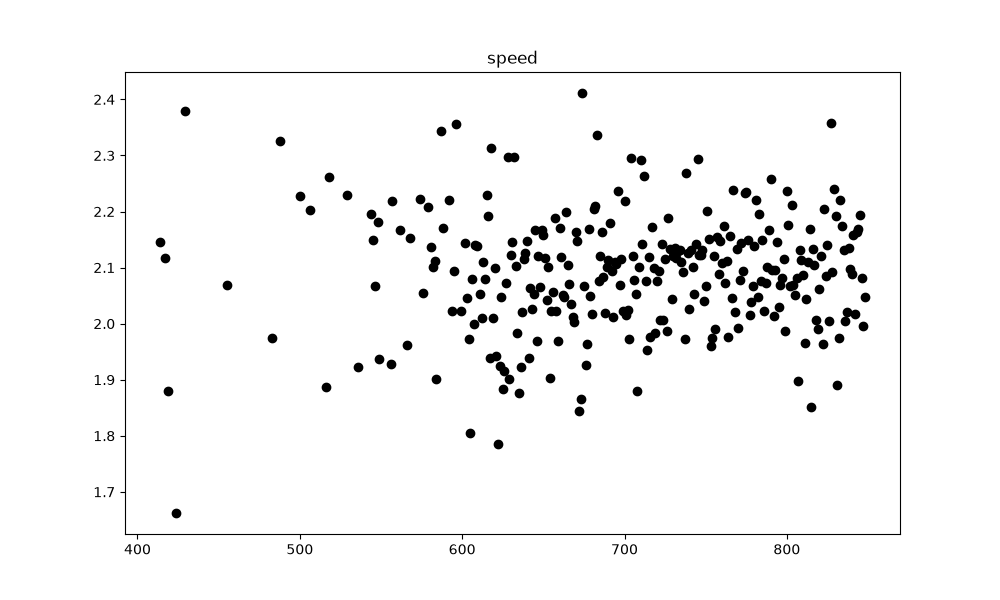
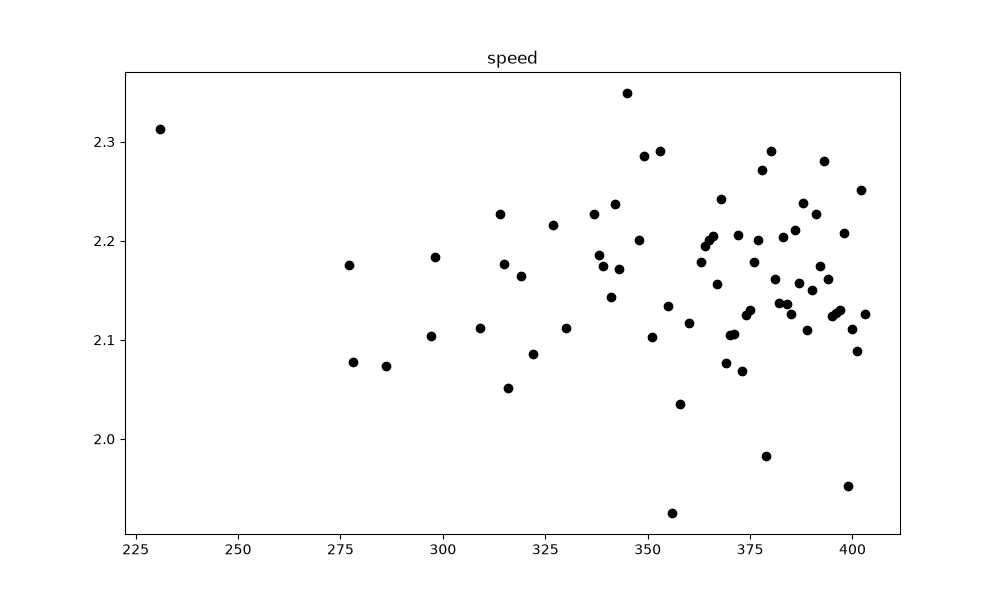
各フレームの個体数グラフとパラメータ調整

diff --git a/base_code/main.py b/base_code/main.py
@@ -17,11 +17,11 @@ FOOD_RADIUS = 4
 FOOD_EAT_RADIUS = 15
 REMAINING_INDIVIDUALS = 10
 REPRODUCTION_DISTANCE = 5 #繁殖できる2個体の距離の最大値
-REPRODUCTION_COOLDOWN = 30 #各個体の繁殖クールダウンフレーム
+REPRODUCTION_COOLDOWN = 45 #各個体の繁殖クールダウンフレーム
 
 # 気温変化の設定
-HOT_FRAMES = 300
-COLD_FRAMES = 300
+HOT_FRAMES = 500
+COLD_FRAMES = 500
 HOT_STAMINA_MULTIPLIER = 1.5
 COLD_STAMINA_MULTIPLIER = 1.0
 
@@ -86,11 +86,38 @@ def display_genes(org_list):
     plt.savefig("speed.png")
     plt.close()
 
+def display_population_graph(population_history):
+    frames = [data[0] for data in population_history]
+    populations = [data[1] for data in population_history]
+
+    plt.figure(figsize=(10, 6))
+    plt.plot(frames, populations, color="black")
+
+    #環境が切り替わるフレーム
+    plt.axvline(x=500, color="orange", linestyle="--", label="Enviroment change")
+    plt.axvline(x=1000, color="blue", linestyle="--", label="Enviroment change")
+    plt.axvline(x=1500, color="orange", linestyle="--", label="Enviroment change")
+    plt.axvline(x=2000, color="blue", linestyle="--", label="Enviroment change")
+
+    plt.title("Population over Time")
+    plt.xlabel("Frame")
+    plt.ylabel("Number of Living Organisms")
+    plt.xlim(0, 2000)
+    plt.grid(True)
+    plt.legend()
+    plt.tight_layout()
+
+    plt.savefig("population.png")
+    plt.show()
+    plt.close()
+
+#---------------------------------------------------------------------------------------------
 
 def main():
     width, height = 500, 500
     flame_count = 0
-    max_flame = 900
+    max_flame = 2000
+    population_history = []
     gender = [1, 2] # 1:オス, 2:メス
     if VISUALIZE:
         pygame.init()
@@ -168,7 +195,7 @@ def main():
             for org in org_list:
                 if np.linalg.norm(org.position - food.position) <= FOOD_EAT_RADIUS:
                     eaten = True
-                    org.stamina = min(org.genes["stamina"], org.stamina + 22)
+                    org.stamina = min(org.genes["stamina"], org.stamina + 25)
                     break
             if not eaten:
                 remaining_food.append(food)
@@ -177,6 +204,8 @@ def main():
         # 餌の数が少なくなったら新しい餌を追加
         if len(food_list) < FOOD_NUM:
             food_list.append(Food((random.uniform(0, width), random.uniform(0, height))))
+
+        population_history.append((flame_count, len(org_list)))
 
         if VISUALIZE:
             screen.fill((0, 0, 0))
@@ -210,6 +239,7 @@ def main():
         if flame_count >= max_flame:
             print_breeding(org_list)
             display_genes(org_list)
+            display_population_graph(population_history)
 
             #生き残った個体の番号とドライブを保有してるかの情報確認
             ikinokori = [0, 0, 0]

diff --git a/base_code/main_no_drive.py b/base_code/main_no_drive.py
@@ -86,12 +86,36 @@ def display_genes(org_list):
     plt.savefig("speed.png")
     plt.close()
 
+def display_population_graph(population_history):
+    frames = [data[0] for data in population_history]
+    populations = [data[1] for data in population_history]
+
+    plt.figure(figsize=(10, 6))
+    plt.plot(frames, populations, color="black")
+
+    #環境が切り替わるフレーム
+    plt.axvline(x=300, color="orange", linestyle="--", label="Enviroment change")
+    plt.axvline(x=600, color="blue", linestyle="--", label="Enviroment change")
+
+    plt.title("Population over Time")
+    plt.xlabel("Frame")
+    plt.ylabel("Number of Living Organisms")
+    plt.xlim(0, 900)
+    plt.grid(True)
+    plt.legend()
+    plt.tight_layout()
+
+    plt.savefig("population.png")
+    plt.show()
+    plt.close()
+
 #---------------------------------------------------------------------------------------------
 
 def main():
     width, height = 500, 500
     flame_count = 0
     max_flame = 900
+    population_history = []
     gender = [1, 2] # 1:オス, 2:メス
     if VISUALIZE:
         pygame.init()
@@ -176,6 +200,8 @@ def main():
         if len(food_list) < FOOD_NUM:
             food_list.append(Food((random.uniform(0, width), random.uniform(0, height))))
 
+        population_history.append((flame_count, len(org_list)))
+
         if VISUALIZE:
             screen.fill((0, 0, 0))
 
@@ -208,6 +234,7 @@ def main():
         if flame_count >= max_flame:
             print_breeding(org_list)
             display_genes(org_list)
+            display_population_graph(population_history)
 
             #生き残った個体の番号とドライブを保有してるかの情報確認
             ikinokori = [0, 0, 0]
